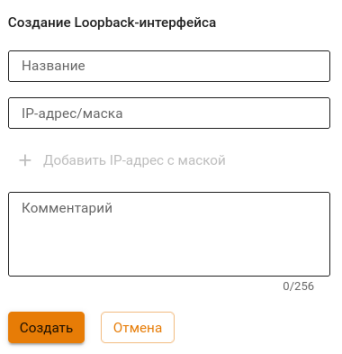
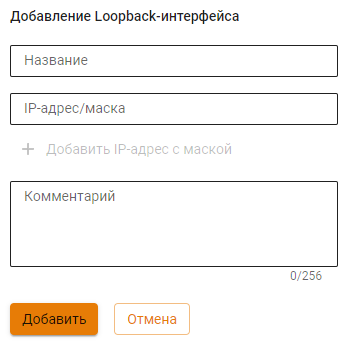
ICS-43168 УТМ. Проверить корректность графики во всех статьях

diff --git a/settings/services/connection-to-provider/README.md b/settings/services/connection-to-provider/README.md
@@ -70,14 +70,14 @@
 * Нельзя добавлять LACP-интерфейсы в VCE.
 {% endhint %}
 
-Чтобы объединить несколько сетевых интерфейсов в один агрегированный, перейдите в раздел **Сервисы -> Сетевые интерфейсы** и в таблице **Агрегированные интерфейсы (LACP)** нажмите **Добавить**. Укажите название, выберите сетевые карты и нажмите **Сохранить**.
+Чтобы объединить несколько сетевых интерфейсов в один агрегированный, перейдите в раздел **Сервисы -> Сетевые интерфейсы** и в таблице **Агрегированные интерфейсы (LACP)** нажмите **Добавить**. Укажите название, выберите сетевые карты и нажмите **Добавить**.
 
 При выборе сетевой карты обращайте внимание на пиктограммы:
 
 * ![](/.gitbook/assets/icon-agg1.png) - сетевая карта уже используется другим интерфейсом;
 * ![](/.gitbook/assets/icon-agg.png) - сетевая карта не используется.
 
-Если были выбраны уже использующиеся сетевые интерфейсы, то при нажатии на кнопку **Сохранить** появится сообщение:
+Если были выбраны уже использующиеся сетевые интерфейсы, то при нажатии на кнопку **Добавить** появится сообщение:
 
 ![](/.gitbook/assets/interfaces20.png)
 

diff --git a/installation/initial-setup.md b/installation/initial-setup.md
@@ -103,7 +103,7 @@
 При создании, редактировании или удалении сетевого интерфейса перевыпускается [SSL-сертификат](/settings/services/certificates/README.md), поэтому вероятно снижение скорости работы веб-интерфейса Ideco NGFW. В этом случае рекомендуем нажать F5.
 {% endhint %}
 
-5\. Проверьте правильность введенных данных и нажмите кнопку **Сохранить**.
+5\. Проверьте правильность введенных данных и нажмите кнопку **Добавить**.
 
 ### Настройка других типов подключений
 

diff --git a/recipes/popular-recipes/processing-order.md b/recipes/popular-recipes/processing-order.md
@@ -66,7 +66,7 @@ INPUT-правила Файрвола обрабатывают трафик ра
 * **Адрес** назначения - выберите страну **Сербия**;
 * **Действие** - выберите **Запретить**.
 
-3\. Сохраните правило.
+3\. Нажимити **Добавить**.
 
 4\. Перейдите в раздел **Контент-фильтр** на вкладку **Пользовательские категории** и нажмите на ![](/.gitbook/assets/icon-edit.png) напротив категории **Запрещенные сайты**.
 

diff --git a/settings/security-profiles/application-control/no-rules.md b/settings/security-profiles/application-control/no-rules.md
@@ -10,7 +10,7 @@
 
 4\. Выберите протоколы или группы протоколов и действия (**Запретить** или **Разрешить**), которые будут к ним применяться, затем нажмите **Применить**.
 
-5\. Нажмите Сохранить в левом нижнем углу.
+5\. Нажмите **Сохранить** в левом нижнем углу.
 
 Далее создайте правило **Файрвола** с созданным профилем **Контроля приложений**:
 

diff --git a/settings/services/connection-to-provider/loopback.md b/settings/services/connection-to-provider/loopback.md
@@ -24,7 +24,7 @@ Loopback - это виртуальный интерфейс, который мо
 * `172.16.0.0/12`
 {% endhint %}
 
-4\. Нажмите **Сохранить**. Loopback-интерфейс появится в таблице внешних и локальных интерфейсов:
+4\. Нажмите **Добавить**. Loopback-интерфейс появится в таблице внешних и локальных интерфейсов:
 
 ![](/.gitbook/assets/interfaces31.png)
 

diff --git a/recipes/problem-diagnosis/site-does-not-open.md b/recipes/problem-diagnosis/site-does-not-open.md
@@ -101,7 +101,7 @@
 
 ![](/.gitbook/assets/ips2.png)
 
-5\. Нажмите **Сохранить** и переместите только что созданное правило на самый верх таблицы правил профиля:
+5\. Нажмите **Добавить** и переместите только что созданное правило на самый верх таблицы правил профиля:
 
 ![](/.gitbook/assets/ips3.png)
 

diff --git a/recipes/popular-recipes/blocking-popular-resources.md b/recipes/popular-recipes/blocking-popular-resources.md
@@ -62,7 +62,7 @@
 
 ![](/.gitbook/assets/ips-security-profiles6.png)
 
-3\. Нажмите **Сохранить**.
+3\. Нажмите **Добавить**.
 
 4\. В разделе **Правила трафика -> Файрвол** добавьте и включите разрешающее правило с профилем, созданным ранее.
 
